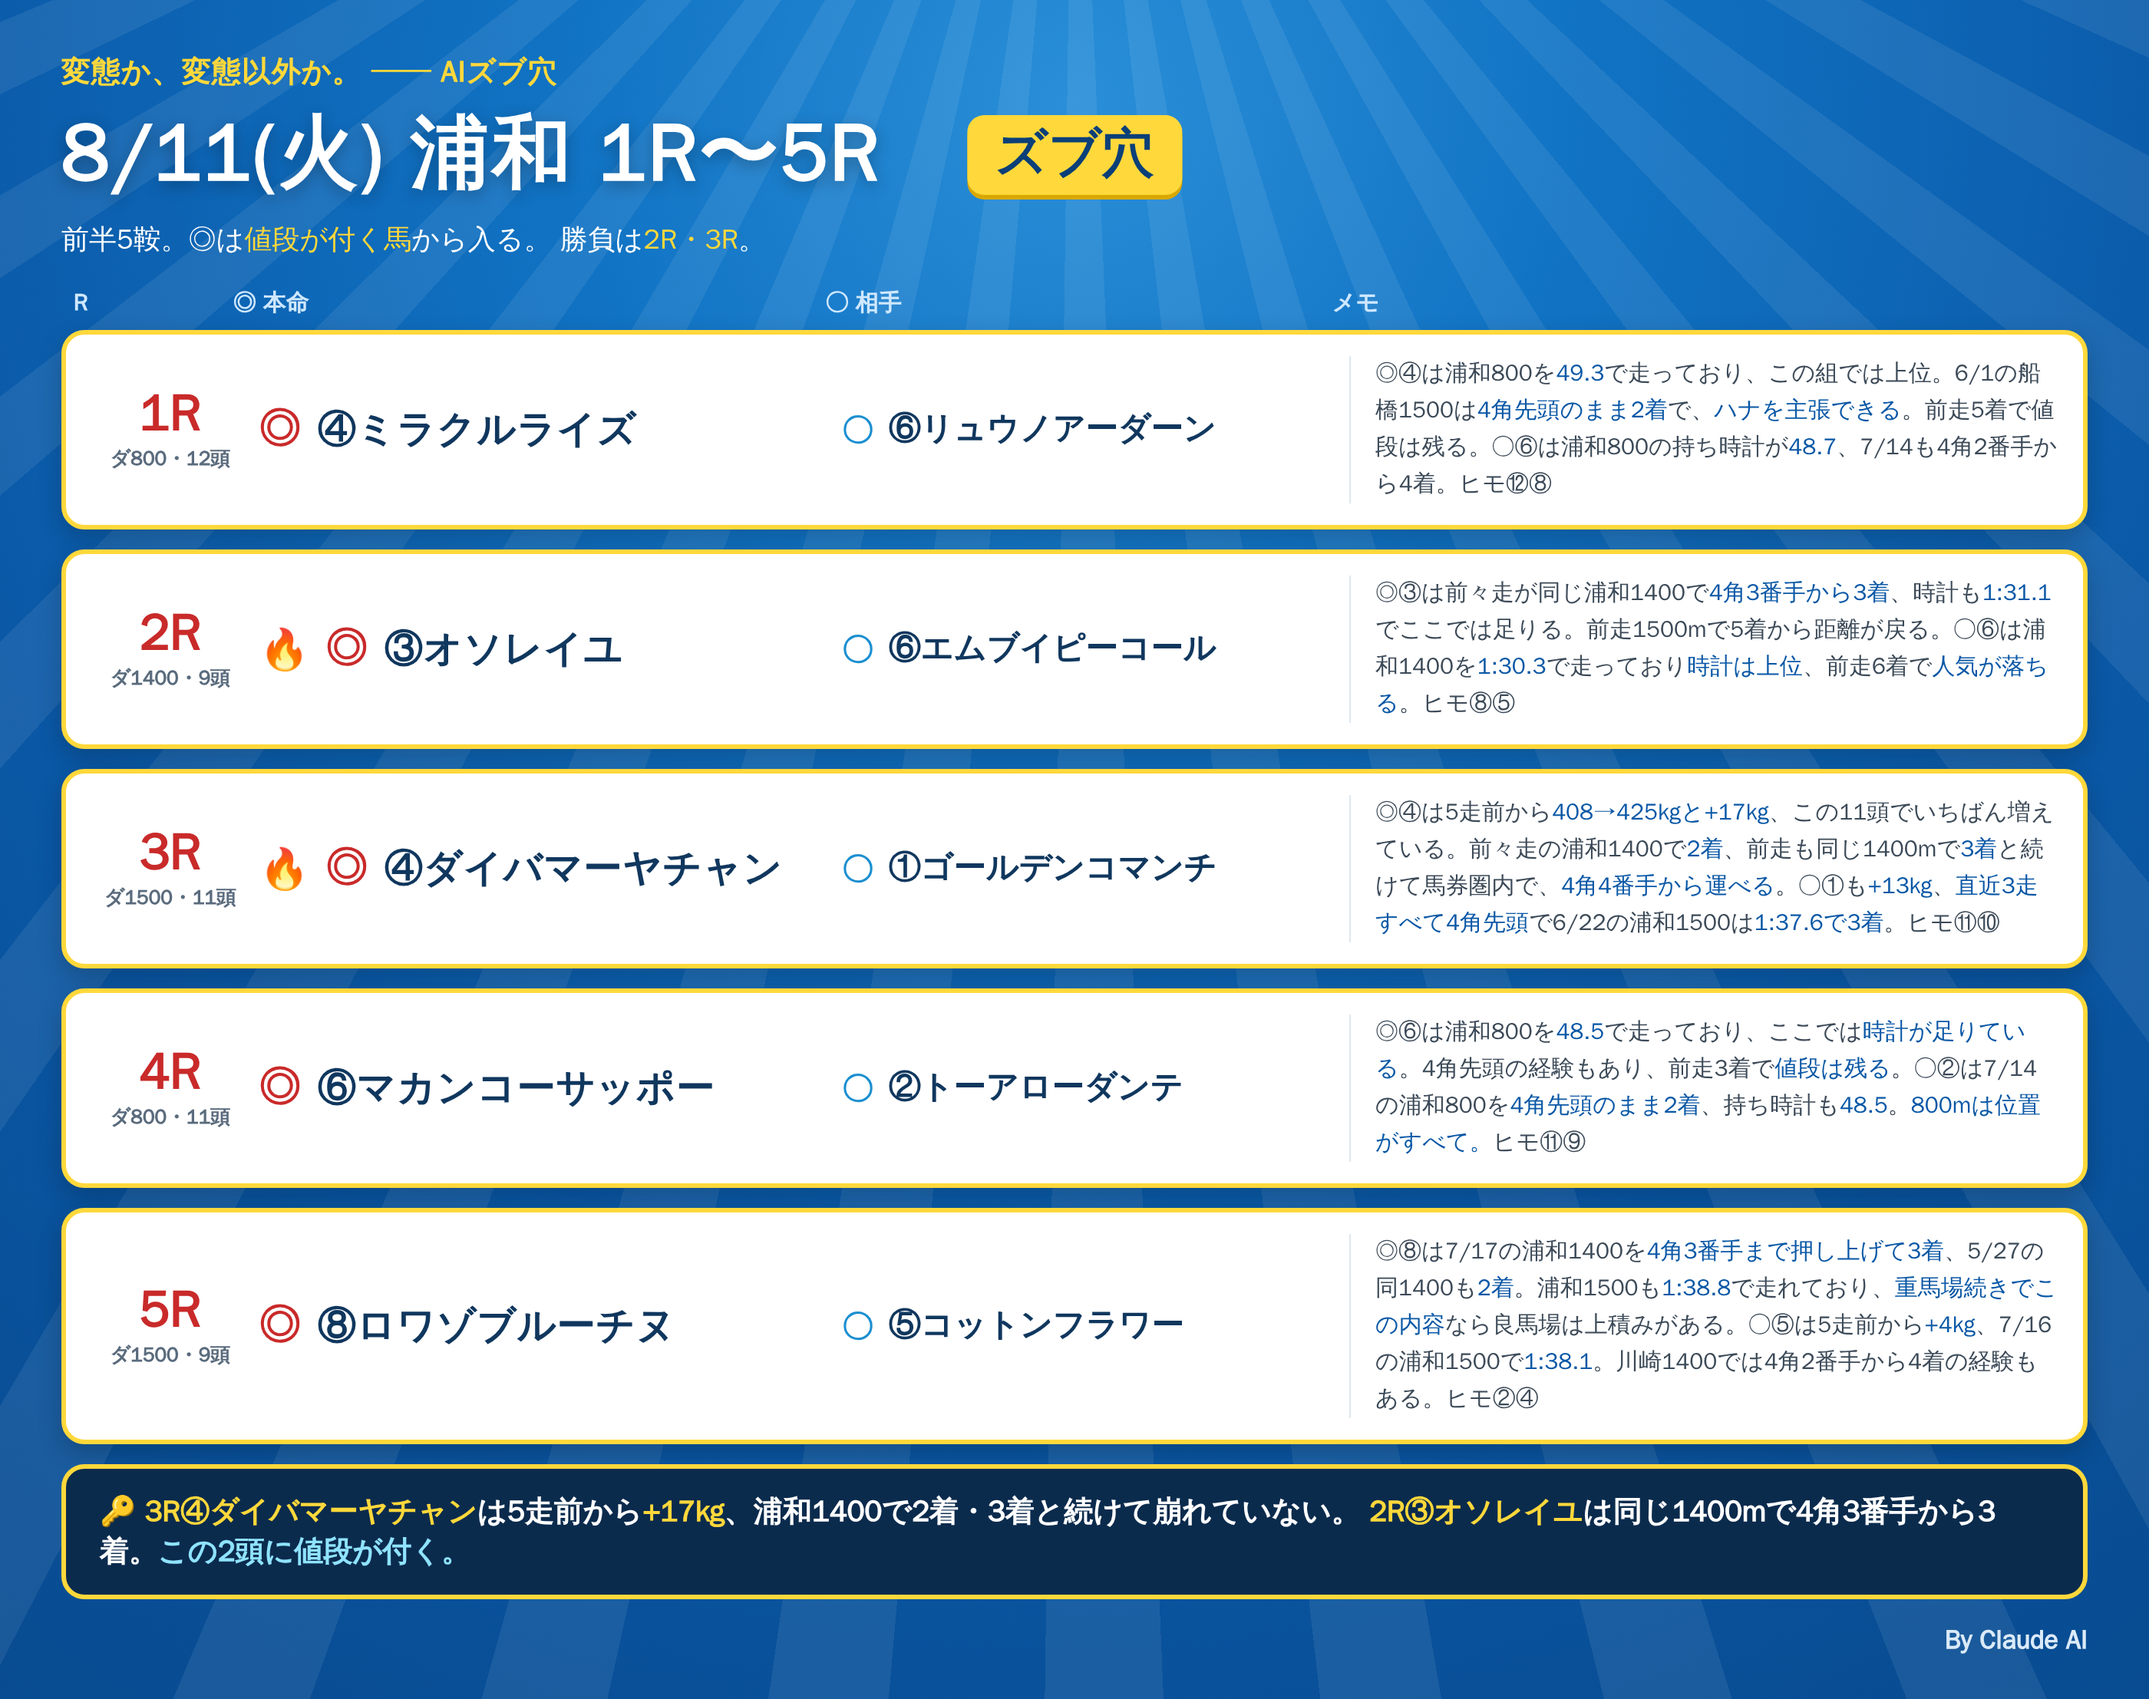
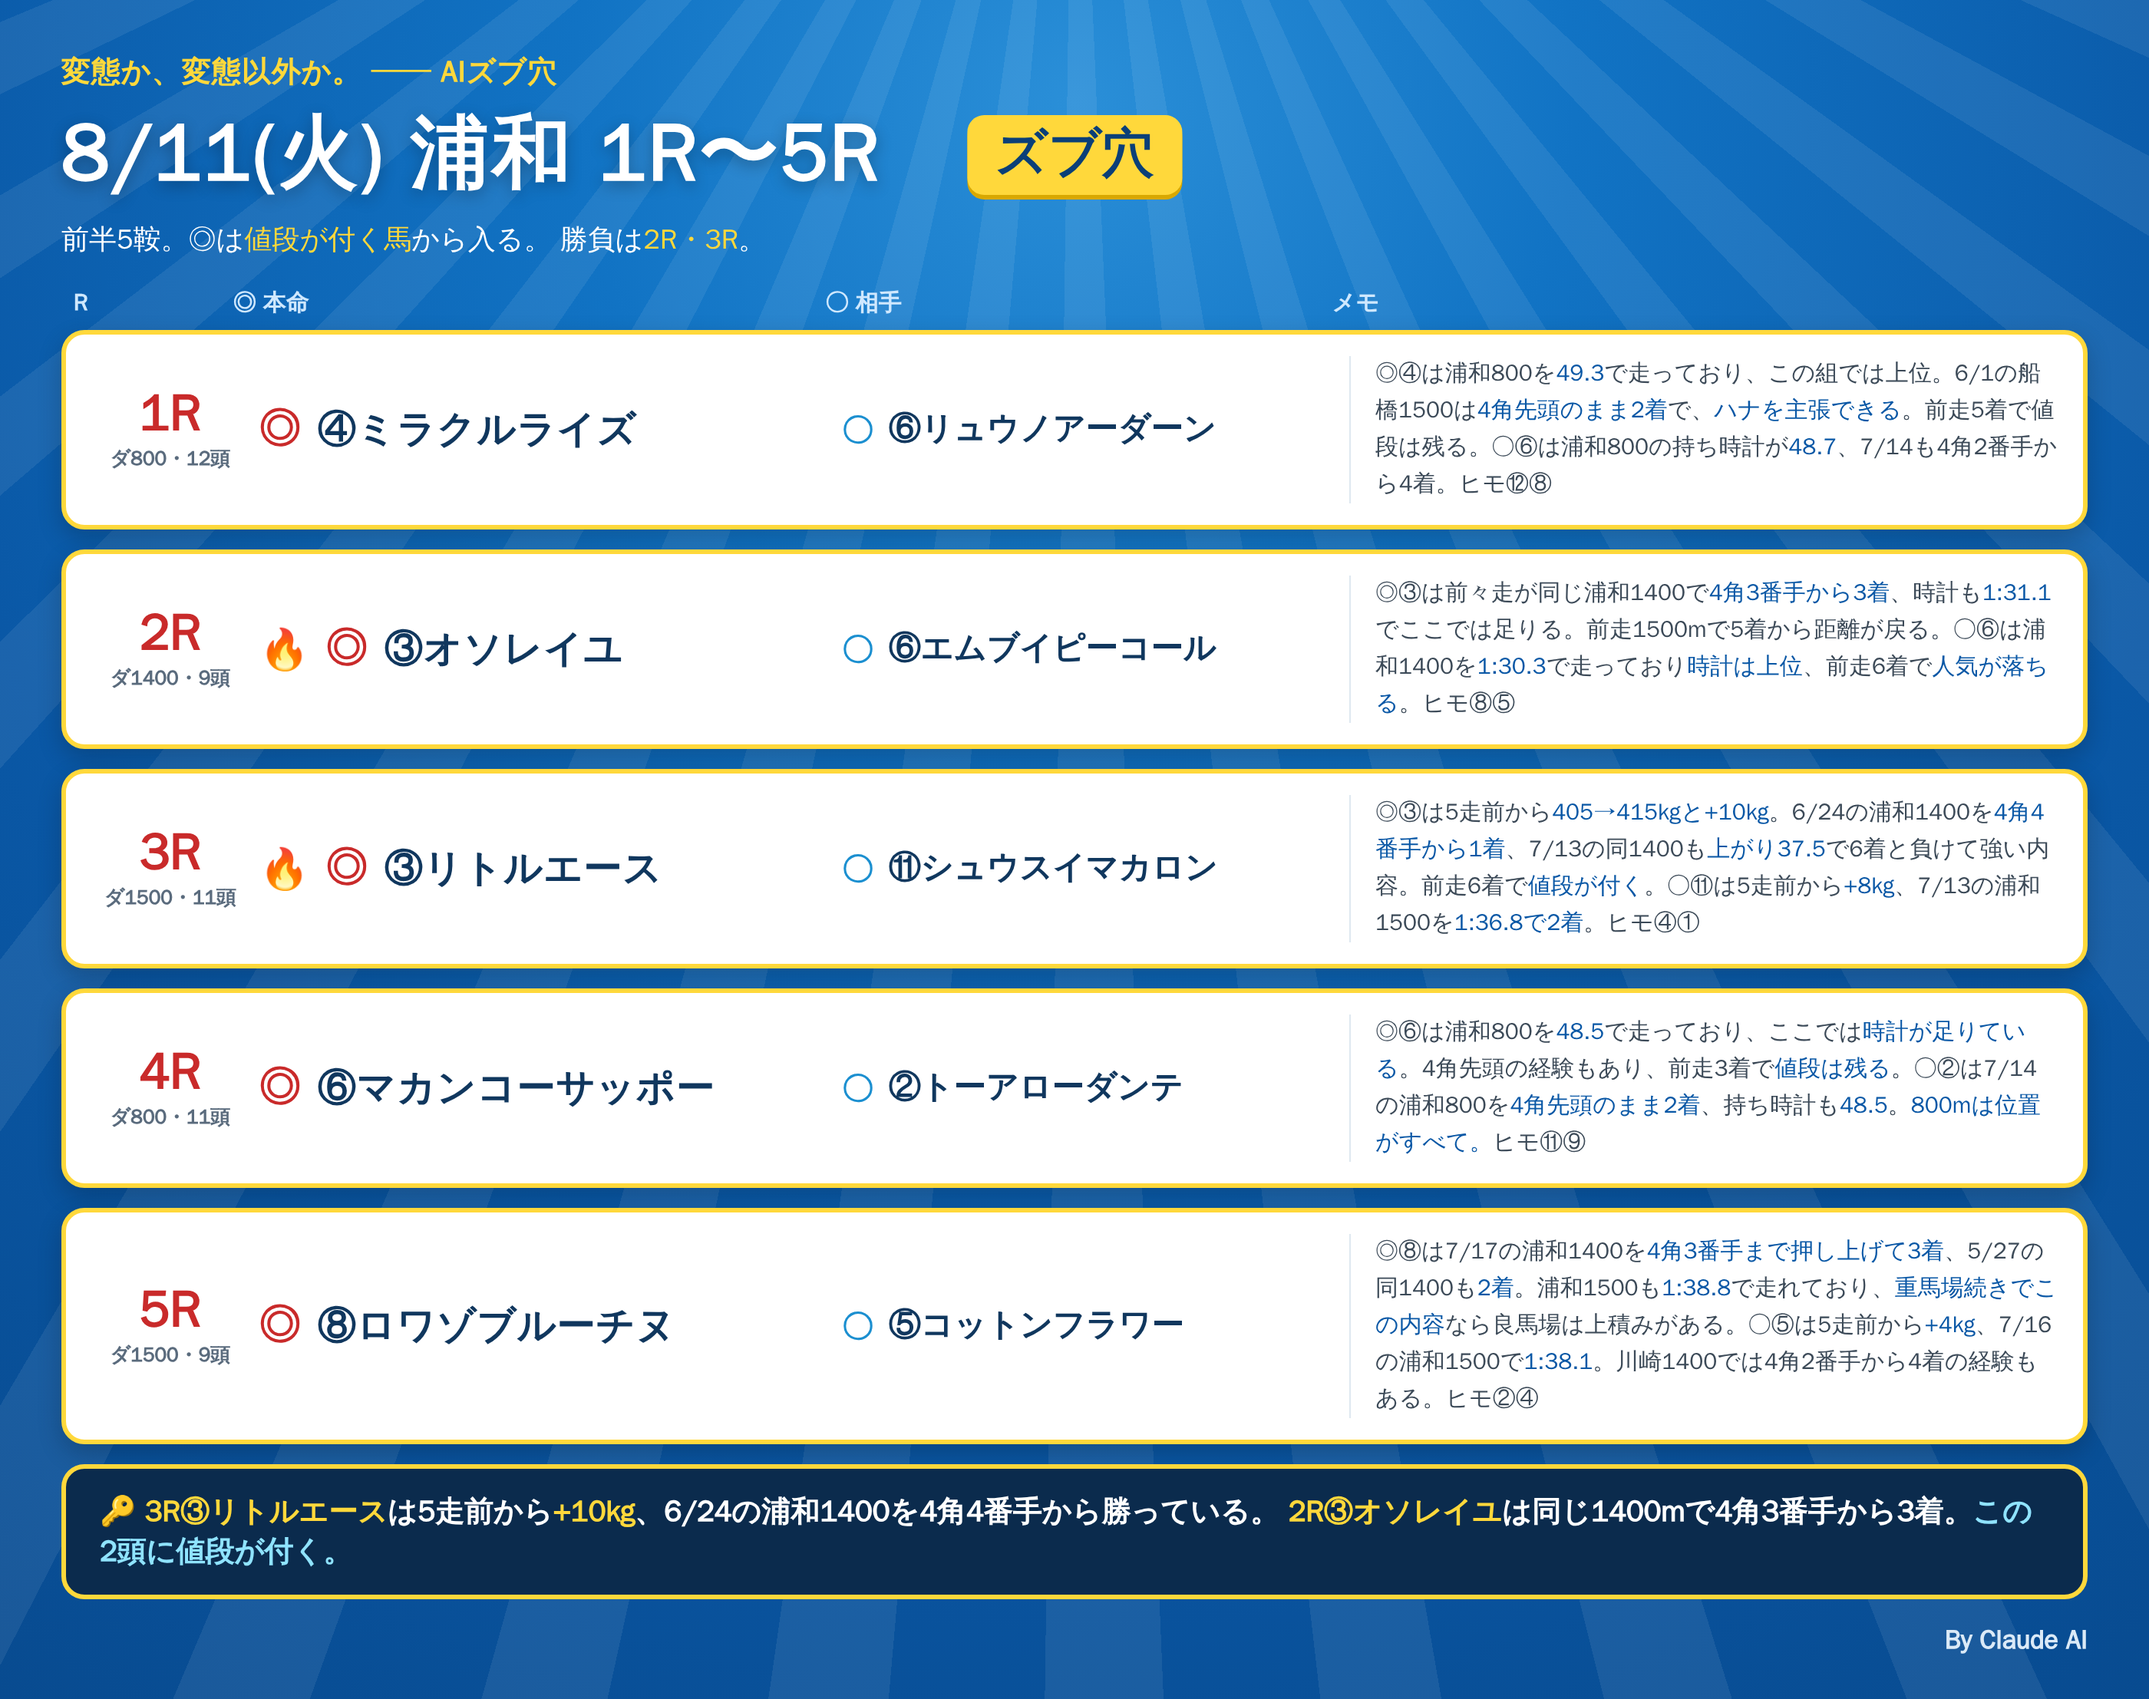
8/11 浦和 3Rの印を◎③リトルエース・○⑪シュウスイマカロンに変更
④ダイバマーヤチャンと①ゴールデンコマンチはヒモへ。フッターも③に差し替え。

Claude-Session: https://claude.ai/code/session_01RoHscZkr96FNaxQWvUqgEw

diff --git a/notes/live/2026-08-11/urawa_1_5.html b/notes/live/2026-08-11/urawa_1_5.html
@@ -66,9 +66,9 @@
 
   <div class="row">
     <div class="rN"><div class="n">3R</div><div class="d">ダ1500・11頭</div></div>
-    <div class="hm"><span class="fire">🔥</span><span class="mk">◎</span><span class="nm">④ダイバマーヤチャン</span></div>
-    <div class="at"><span class="mk2">○</span><span class="nm2">①ゴールデンコマンチ</span></div>
-    <div class="memo">◎④は5走前から<b>408→425kgと+17kg</b>、この11頭でいちばん増えている。前々走の浦和1400で<b>2着</b>、前走も同じ1400mで<b>3着</b>と続けて馬券圏内で、<b>4角4番手から運べる</b>。○①も<b>+13kg</b>、<b>直近3走すべて4角先頭</b>で6/22の浦和1500は<b>1:37.6で3着</b>。ヒモ⑪⑩</div>
+    <div class="hm"><span class="fire">🔥</span><span class="mk">◎</span><span class="nm">③リトルエース</span></div>
+    <div class="at"><span class="mk2">○</span><span class="nm2">⑪シュウスイマカロン</span></div>
+    <div class="memo">◎③は5走前から<b>405→415kgと+10kg</b>。6/24の浦和1400を<b>4角4番手から1着</b>、7/13の同1400も<b>上がり37.5</b>で6着と負けて強い内容。前走6着で<b>値段が付く</b>。○⑪は5走前から<b>+8kg</b>、7/13の浦和1500を<b>1:36.8で2着</b>。ヒモ④①</div>
   </div>
 
   <div class="row">
@@ -85,7 +85,7 @@
     <div class="memo">◎⑧は7/17の浦和1400を<b>4角3番手まで押し上げて3着</b>、5/27の同1400も<b>2着</b>。浦和1500も<b>1:38.8</b>で走れており、<b>重馬場続きでこの内容</b>なら良馬場は上積みがある。○⑤は5走前から<b>+4kg</b>、7/16の浦和1500で<b>1:38.1</b>。川崎1400では4角2番手から4着の経験もある。ヒモ②④</div>
   </div>
 
-  <div class="foot">🔑 <span class="y">3R④ダイバマーヤチャン</span>は5走前から<span class="y">+17kg</span>、浦和1400で2着・3着と続けて崩れていない。
+  <div class="foot">🔑 <span class="y">3R③リトルエース</span>は5走前から<span class="y">+10kg</span>、6/24の浦和1400を4角4番手から勝っている。
   <span class="y">2R③オソレイユ</span>は同じ1400mで4角3番手から3着。<span class="c">この2頭に値段が付く。</span></div>
   <div class="sig">By Claude AI</div>
 </div></div>
